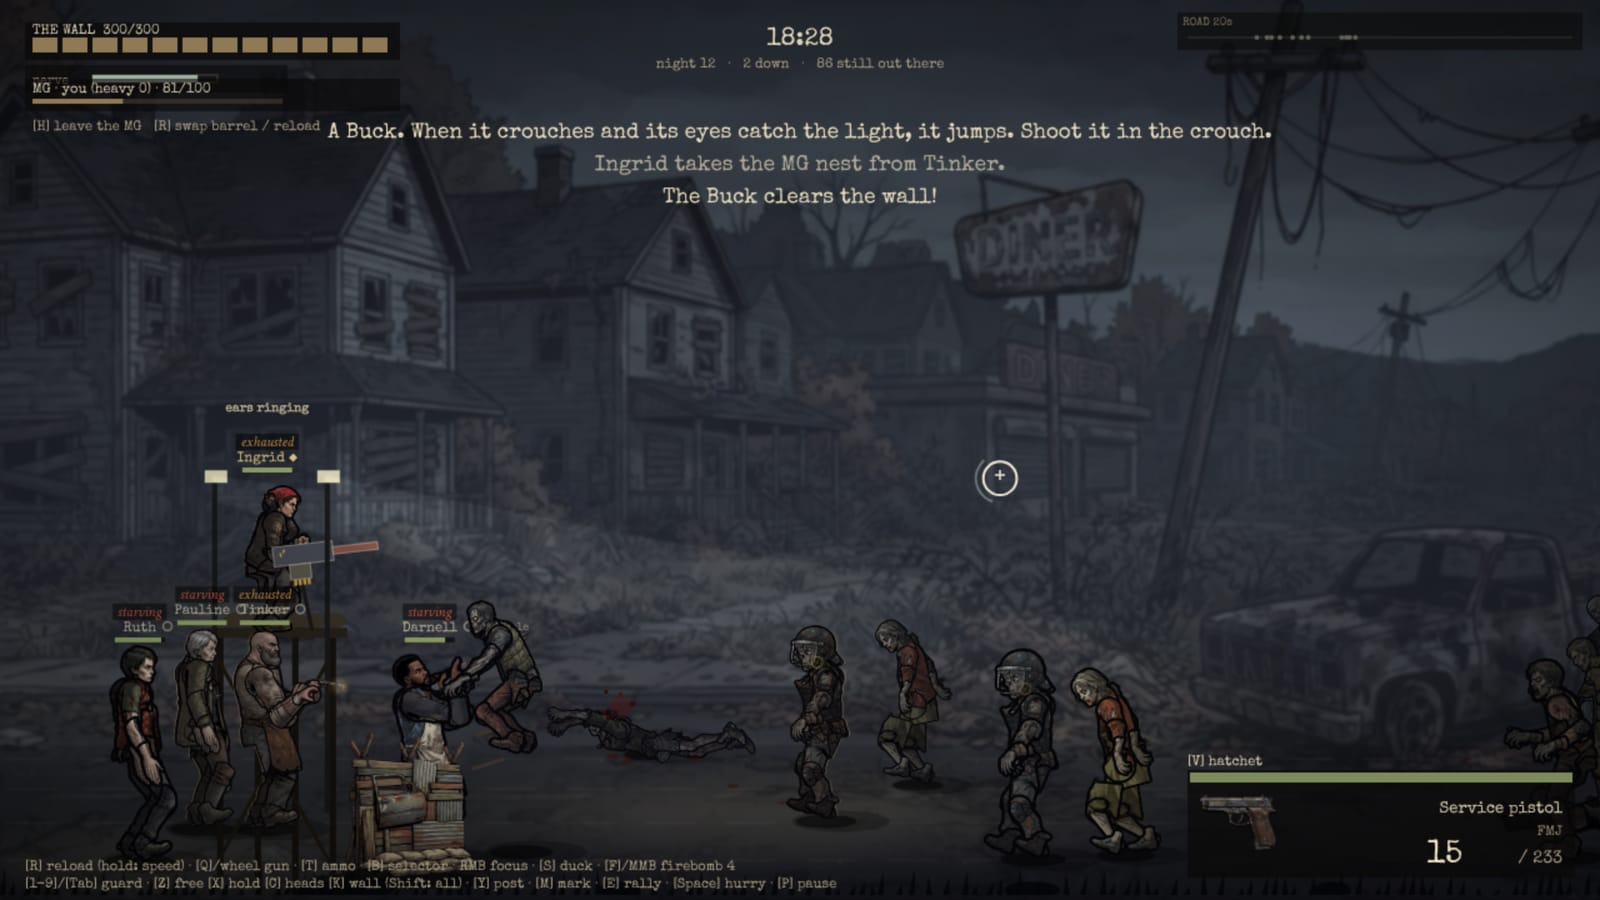
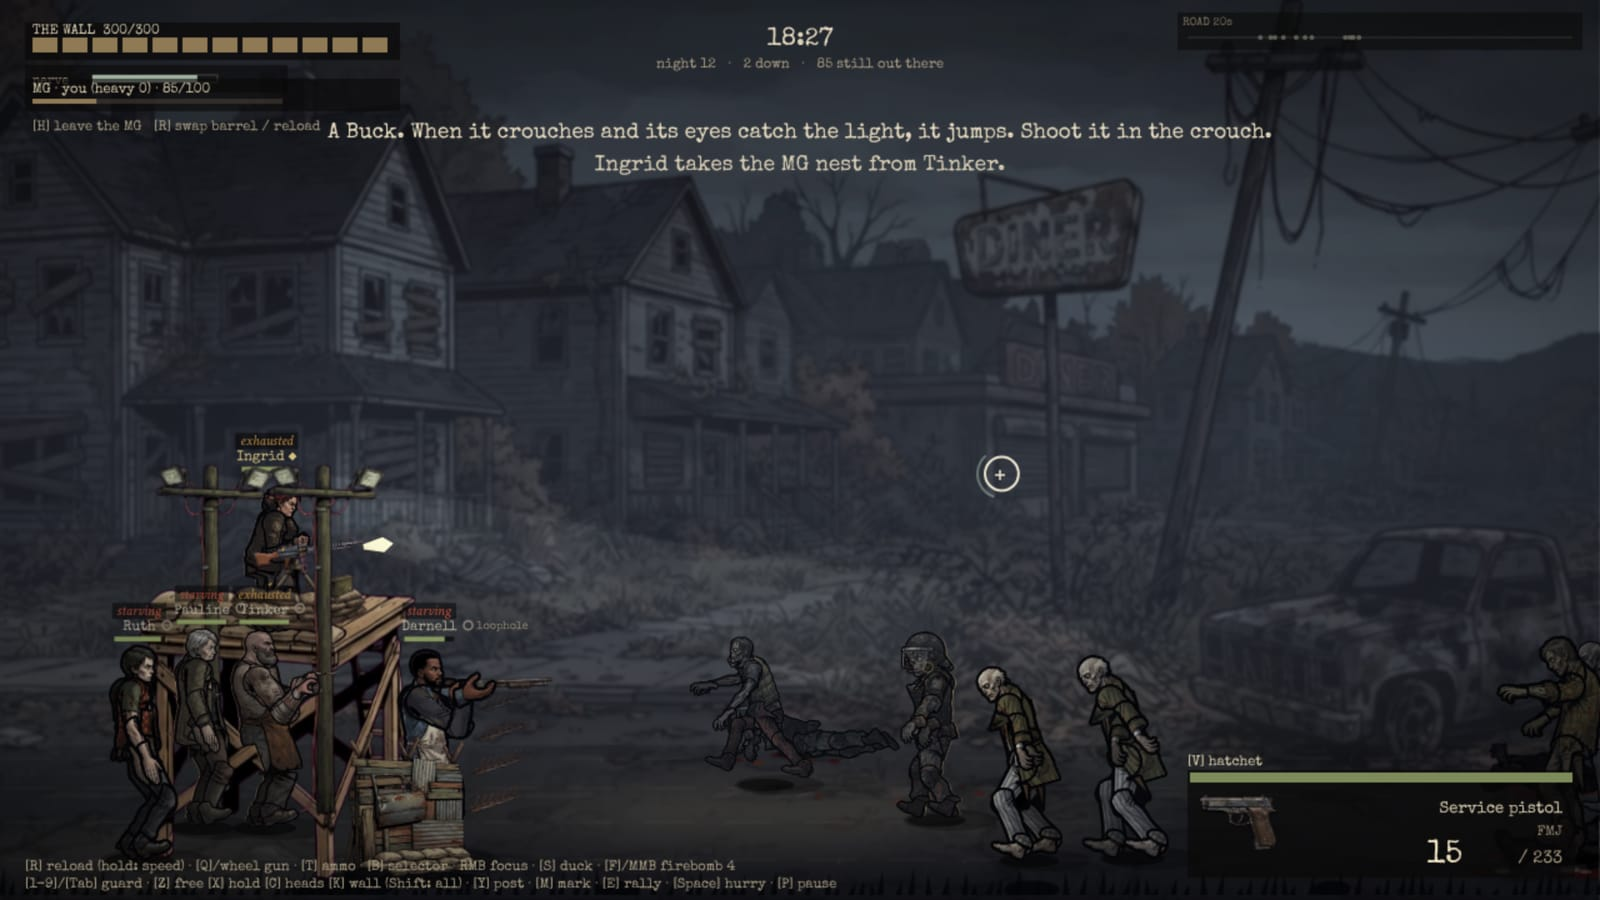
World props generated (39 sprites, 10 sheets + 10 singles, ~$0.44): emplacement pivots, scaffold deck, gallows/deadfall, nail stand behind the wall, wire rows, spike rails, flatter oil; nest.jpg and deploy.jpg refreshed
Claude-Session: https://claude.ai/code/session_01BpmvtS4bsapJPSRAWVjKg6

diff --git a/src/night/props.ts b/src/night/props.ts
@@ -53,21 +53,22 @@ export function drawProp(
  * image (x from the left, y from the top), `len` the display width at scale 1, `muz` the
  * muzzle as a fraction of the width.
  */
-export const GUN_PART: Record<string, { id: string; len: number; piv: [number, number]; muz: number; base: string; top: number; minH: number }> = {
-  // base sprite: drawn from the pivot down to the post's foot; its pintle sits `top` (fraction
-  // of its height) below its top edge; at least `minH` px tall
-  mgnest: { id: 'emp_mg_gun', len: 76, piv: [0.42, 0.62], muz: 1, base: 'emp_mg_base', top: 0.12, minH: 34 },
-  swivel: { id: 'emp_rifle_gun', len: 72, piv: [0.45, 0.55], muz: 1, base: 'emp_rifle_base', top: 0.06, minH: 30 },
-  flamer: { id: 'emp_flamer_gun', len: 58, piv: [0.3, 0.6], muz: 1, base: 'emp_flamer_base', top: 0.1, minH: 40 },
-  nailturret: { id: 'emp_nail_gun', len: 48, piv: [0.4, 0.7], muz: 1, base: 'emp_nail_base', top: 0.18, minH: 40 },
+export const GUN_PART: Record<string, { id: string; len: number; piv: [number, number]; muz: number; base: string; bx: number; top: number; minH: number; maxH?: number }> = {
+  // base sprite: drawn from the pivot down to the post's foot; its pintle sits `bx` across and
+  // `top` (fractions) below its top edge; at least `minH` px tall. Measured off the sprites.
+  mgnest: { id: 'emp_mg_gun', len: 88, piv: [0.39, 0.47], muz: 1, base: 'emp_mg_base', bx: 0.49, top: 0.1, minH: 40 },
+  swivel: { id: 'emp_rifle_gun', len: 80, piv: [0.45, 0.55], muz: 1, base: 'emp_rifle_base', bx: 0.6, top: 0.05, minH: 30 },
+  flamer: { id: 'emp_flamer_gun', len: 62, piv: [0.36, 0.5], muz: 1, base: 'emp_flamer_base', bx: 0.73, top: 0.05, minH: 46 },
+  nailturret: { id: 'emp_nail_gun', len: 50, piv: [0.49, 0.38], muz: 1, base: 'emp_nail_base', bx: 0.45, top: 0.06, minH: 40, maxH: 80 },
 };
 
 /** The base under a gun: its pintle at (px, py), its foot on footY. False when missing. */
 export function drawGunBase(c: CanvasRenderingContext2D, key: string, px: number, py: number, footY: number, look: Look = NEAR): boolean {
   const g = GUN_PART[key];
   if (!g || !img(g.base)) return false;
-  const h = Math.max(g.minH, (footY - py) / (1 - g.top));
-  return drawProp(c, g.base, px, py, h, look, { ay: g.top });
+  // (a capped stand stops short of footY: the nail turret's foot is behind the barricade)
+  const h = Math.min(g.maxH ?? 1e9, Math.max(g.minH, (footY - py) / (1 - g.top)));
+  return drawProp(c, g.base, px, py, h, look, { ax: g.bx, ay: g.top });
 }
 
 /** Draw a gun part rotated about its pivot at (px, py). False when the image is missing. */

diff --git a/src/night/emplacements.ts b/src/night/emplacements.ts
@@ -20,7 +20,7 @@ import { drawProp, drawGunPart, drawGunBase, gunReach, has, propW } from './prop
 const WALL_X = 372;
 const ROOF_Y = 506; // the scaffold's deck
 const FIRESTEP_Y = 688; // the near defenders' row, behind the barricade
-const SCAFFOLD_DECK = 0.2; // emp_scaffold: the deck's height as a fraction from the sprite's top
+const SCAFFOLD_DECK = 0.15; // emp_scaffold: the deck's height as a fraction from the sprite's top
 /** "the MG nest", "the swivel deer rifle" */
 const lc = (name: string) => name.replace(/^[A-Z](?=[a-z])/, (m) => m.toLowerCase());
 const PROFILE_GUN: Record<string, string> = { mgnest: 'lmg', swivel: 'hunting', flamer: 'flaregun', nailturret: 'nailer' };
@@ -419,7 +419,8 @@ export class Emplacements implements BattleHook {
     if (roofs.length) out.push({ y: ROOF_Y - 1, f: () => this.drawScaffold(c, roofs) });
     for (const m of this.mounts) {
       // firestep guns sit on the barricade top, in front of it; roof guns on the scaffold deck
-      const y = !m.def.crew ? 700 + 1 : m.post === 'roof' ? ROOF_Y + 0.5 : 701.2;
+      // the nail turret's stand stands behind the barricade (its seat and gun clear the top) when drawn from sprites
+      const y = !m.def.crew ? (has('emp_nail_base') ? 699.5 : 700 + 1) : m.post === 'roof' ? ROOF_Y + 0.5 : 701.2;
       out.push({ y, f: () => this.drawGun(c, m) });
     }
     return out;
@@ -515,11 +516,11 @@ export class Emplacements implements BattleHook {
     const key = m.def.id;
     if (!has(`emp_${key === 'mgnest' ? 'mg' : key === 'swivel' ? 'rifle' : key === 'flamer' ? 'flamer' : 'nail'}_gun`)) return false;
     const footY = !m.def.crew ? 704 : m.post === 'roof' ? ROOF_Y - 2 : 600;
-    if (m.post === 'firestep' && m.def.crew && has('emp_firestep')) drawProp(c, 'emp_firestep', m.px - 2, footY + 6, 22, undefined, { w: 54 });
+    if (m.post === 'firestep' && m.def.crew && key !== 'mgnest' && has('emp_firestep')) drawProp(c, 'emp_firestep', m.px - 2, footY + 6, 22, undefined, { w: 54 });
     if (!drawGunBase(c, key, m.px, m.py, footY)) return false;
     // condition: a worn gun reads darker and flatter (baked in steps; no per-frame filter)
     const worn = Math.round((m.item ? 1 - m.item.cond : 0) * 4) / 4;
-    const look = { b: 1 - worn * 0.3, s: 1 - worn * 0.45, fog: 0, outline: 0 };
+    const look = { b: 1.2 - worn * 0.35, s: 1 - worn * 0.45, fog: 0, outline: 0 }; // a touch bright: it reads against the night
     if (!drawGunPart(c, key, m.px, m.py, m.ang, 1, look)) return false;
     const reach = gunReach(key, 1, 50);
     c.save();

diff --git a/src/night/traps.ts b/src/night/traps.ts
@@ -753,7 +753,7 @@ export class Traps implements BattleHook {
         // the generated puddle across every lane; burning, it reads scorched; a moon sheen on top
         for (let l = 0; l < 4; l++) {
           const y = LANES[l] + 2, s = depthScale(y);
-          drawProp(c, 'trap_oil', tr.x + (l - 1.5) * 4, y + 6 * s, 16 * s, LOOK[l], { w: hw * 2 * (0.92 + l * 0.03), b: tr.on ? 0.6 : 1, flip: l % 2 === 1 });
+          drawProp(c, 'trap_oil', tr.x + (l - 1.5) * 4, y + 4 * s, 9 * s, LOOK[l], { w: hw * 2 * (0.92 + l * 0.03), b: tr.on ? 0.6 : 1, flip: l % 2 === 1, alpha: 0.85 });
           c.strokeStyle = `rgba(160,180,215,${0.2 + 0.1 * Math.sin(tr.tick * 1.3 + l)})`;
           c.lineWidth = 1.2;
           c.beginPath(); c.ellipse(tr.x - hw * 0.25, y - 1, hw * 0.4, 3 * s, 0, Math.PI * 1.1, Math.PI * 1.9); c.stroke();
@@ -942,10 +942,12 @@ export class Traps implements BattleHook {
     const fall = tr.drop * 100 * s;
     if (has('trap_gallows') && has('trap_door')) {
       // the gallows arm reaches over the lane; the door hangs off its pulley, then drops and tips
-      const gh = 190 * s;
-      drawProp(c, 'trap_gallows', wx - 6, y + 2, gh, LOOK[tr.lane], { ax: 0.25 });
+      // trap_gallows: post at 0.15 of its width, pulley at (0.55, 0.19); sized so the pulley hangs over the lane
       const pulleyX = wx + 16, pulleyY = top - 30 * s;
-      if (tr.drop <= 0) { c.strokeStyle = '#2a241d'; c.lineWidth = 1.2; c.beginPath(); c.moveTo(pulleyX, pulleyY); c.lineTo(pulleyX, top + 2); c.stroke(); }
+      const gh = (y + 2 - pulleyY) / (1 - 0.19);
+      const gw = (gh * 176) / 380;
+      drawProp(c, 'trap_gallows', pulleyX - (0.55 - 0.15) * gw, y + 2, gh, LOOK[tr.lane], { ax: 0.15 });
+      if (tr.drop <= 0) { c.strokeStyle = '#2a241d'; c.lineWidth = 1.2; c.beginPath(); c.moveTo(pulleyX, pulleyY + 4 * s); c.lineTo(pulleyX, top + 2); c.stroke(); }
       drawProp(c, 'trap_door', pulleyX, top + fall, 40 * s, LOOK[tr.lane], { ay: 0, rot: tr.drop * 0.5 });
       return;
     }

diff --git a/src/night/battle.ts b/src/night/battle.ts
@@ -3204,10 +3204,11 @@ export class Battle {
   drawWireLane(c: CanvasRenderingContext2D, lane: number) {
     const s = depthScale(LANES[lane]);
     if (has('fort_wire')) {
-      // one belt segment per lane per section, staggered a little so the rows don't stack
+      // two rows of belt (the far-middle and near lanes) per section; the others are covered by them
+      if (lane !== 1 && lane !== 3) return;
       for (let k = 0; k < Math.min(3, G.fort.wire); k++) {
         const x0 = WALL_X + 60 + k * 90 + (LANES[3] - LANES[lane]) * 0.12;
-        drawProp(c, 'fort_wire', x0 + 40, LANES[lane] + 2, 44 * s, LOOK[lane], { w: 86, flip: (lane + k) % 2 === 1 });
+        drawProp(c, 'fort_wire', x0 + 40 + (lane === 1 ? 12 : 0), LANES[lane] + 2, 46 * s, LOOK[lane], { w: 86, flip: (lane + k) % 2 === 1 });
       }
       return;
     }
@@ -3247,10 +3248,10 @@ export class Battle {
       }
       // spikes, a row per lane, on each lane's face
       if (G.fort.spikes > 0 && has('fort_spikes')) {
-        const rows = Math.min(5, G.fort.spikes);
-        for (let i = 0; i < rows * 3; i++) {
-          const lane = i % 4, row = Math.floor(i / 4);
-          drawProp(c, 'fort_spikes', wallX(lane) + 4, LANES[lane] - 30 - row * 10, 15, LOOK[lane], { ax: 0, w: 40, rot: -0.12 });
+        // a rail per lane on its face, up to three rows as the upgrades stack
+        const rows = Math.min(3, Math.ceil(G.fort.spikes / 2));
+        for (let row = 0; row < rows; row++) for (let lane = 0; lane < 4; lane += row === 1 ? 2 : 1) {
+          drawProp(c, 'fort_spikes', wallX(lane) + 2, LANES[lane] - 34 - row * 16, 18, LOOK[lane], { ax: 0, w: 44, rot: -0.1 });
         }
       } else for (let i = 0; i < Math.min(5, G.fort.spikes) * 3; i++) {
         c.strokeStyle = '#4a3f35';

diff --git a/src/ui/deploy.css b/src/ui/deploy.css
@@ -31,7 +31,7 @@
 .dep-tok { position: absolute; display: flex; align-items: center; justify-content: center; cursor: grab; touch-action: none; z-index: 2; }
 .dep-tok img { position: relative; max-width: 44px; max-height: 40px; object-fit: contain; pointer-events: none; filter: drop-shadow(0 2px 2px #000); }
 .dep-tok.all img { max-height: 48px; }
-.dep-tok img.world { max-width: 60px; max-height: 44px; filter: drop-shadow(0 1px 1px #000) brightness(1.08); }
+.dep-tok img.world { max-width: max(60px, 100%); max-height: 44px; filter: drop-shadow(0 1px 1px #000) brightness(1.08); }
 .dep-tok.all img.world { max-height: 52px; }
 .dep-band { position: absolute; top: 3px; bottom: 3px; left: 50%; transform: translateX(-50%); pointer-events: none; }
 .dep-band.ground { background: rgba(60, 50, 30, .55); border: 1px solid rgba(184, 134, 47, .35); }
